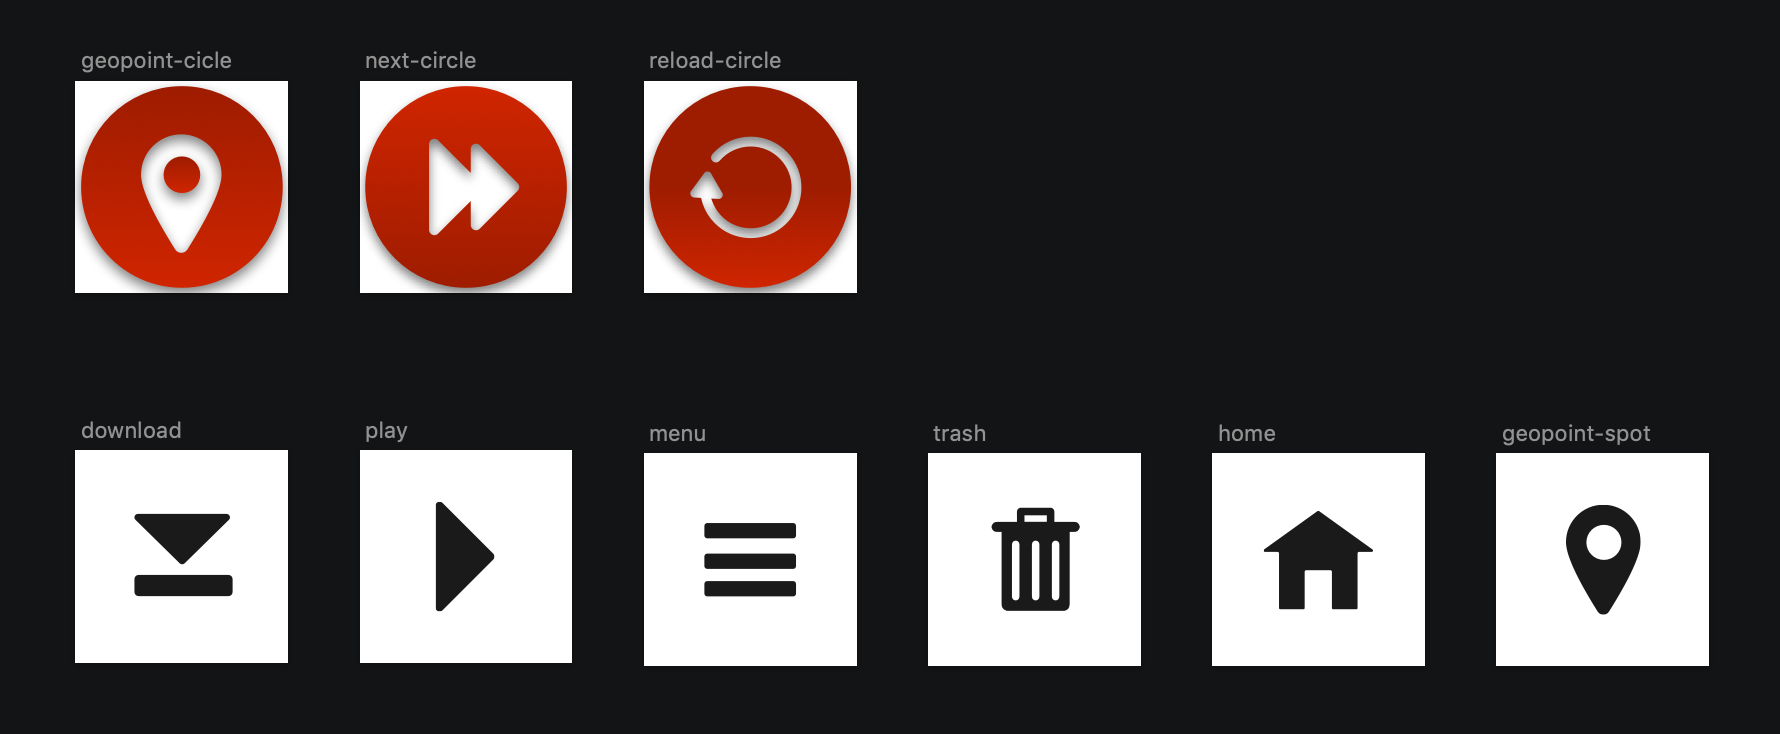
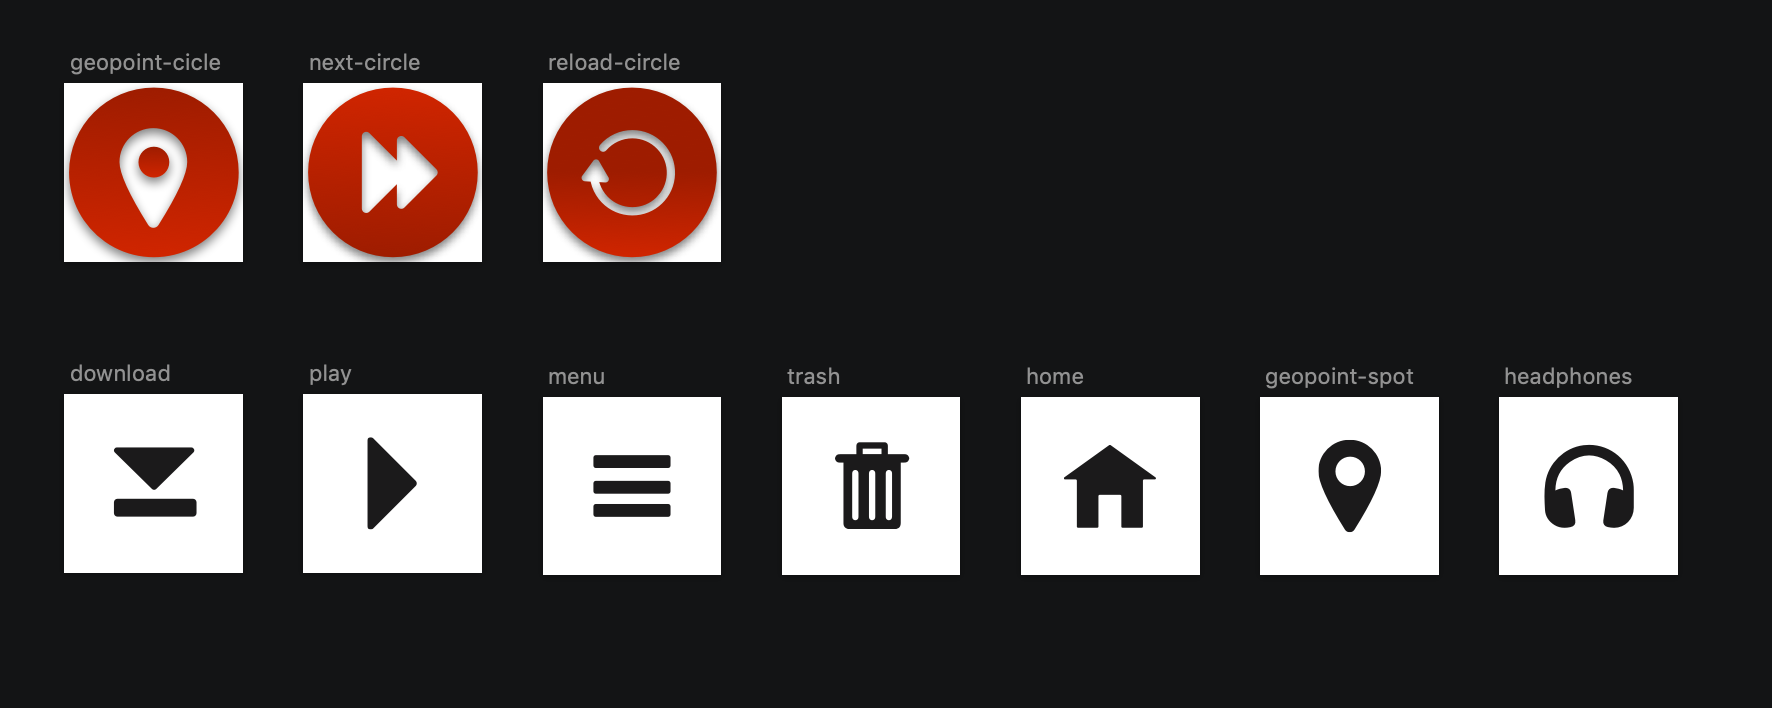
assets, nav, fonts, fonts and slides  customization > appl

diff --git a/src/api/intro/intro.js b/src/api/intro/intro.js
@@ -4,56 +4,78 @@ import { ImageBackground, TouchableOpacity,Image, StyleSheet, View, Text, Activi
 import I18n from "../../utils/i18n";
 import AppIntroSlider from 'react-native-app-intro-slider';
 import { Images } from '../../../assets/intro';
+import Icon from '../../utils/Icon';
 
 const slides = [
   {
     key: 'p1',
-    title: I18n.t("Welcome","Welcome"),
-    text: I18n.t("Invite","We invite you to explore a story."),
+    title: I18n.t("Welcome","BooksOnWall"),
+    text: I18n.t("Invite","welcome! we invite you to explore a story..."),
     image: Images['image1'],
-    backgroundColor: '#59b2ab',
+    backgroundColor: '#9E1C00',
   },
   {
     key: 'p2',
-    title:  I18n.t("Each_story","Each story"),
-    text: I18n.t("discover","has many walls to discover"),
+    title:  I18n.t("Each_story","...each story has many walls to discover..."),
+    text: I18n.t("discover","Soon in your city"),
     image: Images['image2'],
-    backgroundColor: '#febe29',
+    backgroundColor: '#257466',
   },
   {
     key: 'p3',
-    title: I18n.t("Each_wall","Each wall"),
-    text: I18n.t("reveal","has many secrets to reveal"),
+    title: I18n.t("Each_wall","...Each wall has many secrets to reveal..."),
+    text: I18n.t("reveal","whit art, music, animation..."),
     image: Images['image3'],
-    backgroundColor: '#22bcb5',
+    backgroundColor: '#CC7116',
   },
   {
     key: 'p4',
     title: I18n.t("Enjoy","Enjoy it"),
-    text: I18n.t("Press","Press done to start"),
+    text: I18n.t("Press","Choose the story next to you and begin the adventure"),
     image: Images['image4'],
-    backgroundColor: '#22bcb5',
+    backgroundColor: '#593274',
+  },
+  {
+    key: 'p5',
+    title: I18n.t("Bip","oh! please pay attention to the trafic, beep beep!"),
+    text: I18n.t("Better_headphones","Better whit headphone"),
+    icon: 'home',
+    image: Images['image5'],
+    backgroundColor: '#255C97',
   }
 ];
 const styles = StyleSheet.create({
   mainContent: {
     flex: 1,
-    alignItems: 'center',
+    alignItems: 'flex-end',
+    flexDirection: 'column-reverse',
+    justifyContent: 'space-between',
     backgroundColor: 'transparent',
-    justifyContent: 'space-around',
   },
   text: {
-    color: 'black',
+    flex: 1,
+    color: 'white',
     backgroundColor: 'transparent',
+    fontFamily: "OpenSansCondensed-Light",
+    fontSize: 20,
     textAlign: 'center',
-    paddingHorizontal: 16,
+    paddingHorizontal: 5,
+    marginBottom: 0,
   },
   title: {
-    fontSize: 22,
-    color: 'black',
+    flex: 2,
+    fontSize: 27,
+    color: 'white',
     backgroundColor: 'transparent',
+    fontFamily: "ATypewriterForMe",
     textAlign: 'center',
     marginBottom: 16,
+    marginTop: 70,
+    paddingHorizontal: 15,
+  },
+  icon: {
+    textAlign: 'center',
+    backgroundColor: 'transparent',
   }
 });
 
@@ -67,6 +89,14 @@ export default class Intro extends Component {
       <View style={styles.slide}>
         <ImageBackground source={item.image} style={{width: '100%', height: '100%'}}>
           <Text style={styles.title}>{item.title}</Text>
+        {item.icon &&
+         <Icon
+            style={styles.icon}
+            name={item.icon}
+            size={40}
+            color="white"
+            />
+        }
           <Text style={styles.text}>{item.text}</Text>
         </ImageBackground>
       </View>

diff --git a/src/utils/locales/en.js b/src/utils/locales/en.js
@@ -1,12 +1,14 @@
 export default {
   Welcome: "Welcome",
-  Invite: "We invite you to explore a story.",
-  Each_story: "Each story",
-  discover: "has many walls to discover",
-  Each_wall: "Each wall",
-  reveal: "has many secrets to reveal",
+  Invite: "we invite you to explore a story...",
+  Each_story: "...each story has many walls to discover...",
+  discover: "Soon in your city",
+  Each_wall: "...Each wall has many secrets to reveal...",
+  reveal: "whit art, music, animatión…",
   Enjoy: "Enjoy it",
-  Press: "Press done to start",
+  Press: "Choose the story next to you and begin the adventure",
+  Bip: "oh! please pay attention to the trafic, beep beep!",
+  Better_headphones: "Better whit headphone",
   kilometers: "kilometers",
   Stories: "Stories",
   Story_downloaded: "Story downloaded by BooksOnWall.",
@@ -20,5 +22,4 @@ export default {
   Pedestrian: "Pedestrian",
   Bicycle: "Bicycle",
   Transportation: "Please choose your mode of transportation and press Start Navigation."
-
 };

diff --git a/src/utils/locales/es.js b/src/utils/locales/es.js
@@ -1,12 +1,14 @@
 export default {
-  Welcome: "Welcome",
-  Invite: "We invite you to explore a story.",
-  Each_story: "Each story",
-  discover: "has many walls to discover",
-  Each_wall: "Each wall",
-  reveal: "has many secrets to reveal",
-  Enjoy: "Enjoy it",
-  Press: "Press done to start",
+  Welcome: "Bienvenido",
+  Invite: "Te invitamos explorar y recorrer cuentos...",
+  Each_story: "...en cada cuento tendras muchas murales para descubrir ...",
+  discover: "próximamente en tu ciudad",
+  Each_wall: "...y en cada muro muchos secretos para revelar...",
+  reveal: "con arte, música, animación y más",
+  Enjoy: "...a disfrutar!",
+  Press: "Elige un cuento cerca y comienza la aventura",
+  Bip: "ah!, no lo olvides, atento con el trasito!",
+  Better_headphones: "La experiencia es mejor con audifonos",
   kilometers: "kilometers",
   Stories: "Stories",
   Story_downloaded: "Story downloaded by BooksOnWall.",

diff --git a/assets/intro/index.js b/assets/intro/index.js
@@ -3,4 +3,5 @@ export const Images = {
    image2: require('./bow-slider-bg_c02.jpg'),
    image3: require('./bow-slider-bg_c03.jpg'),
    image4: require('./bow-slider-bg_c04.jpg'),
- };
+   image5: require('./bow-slider-bg_c05.jpg'),
+};
